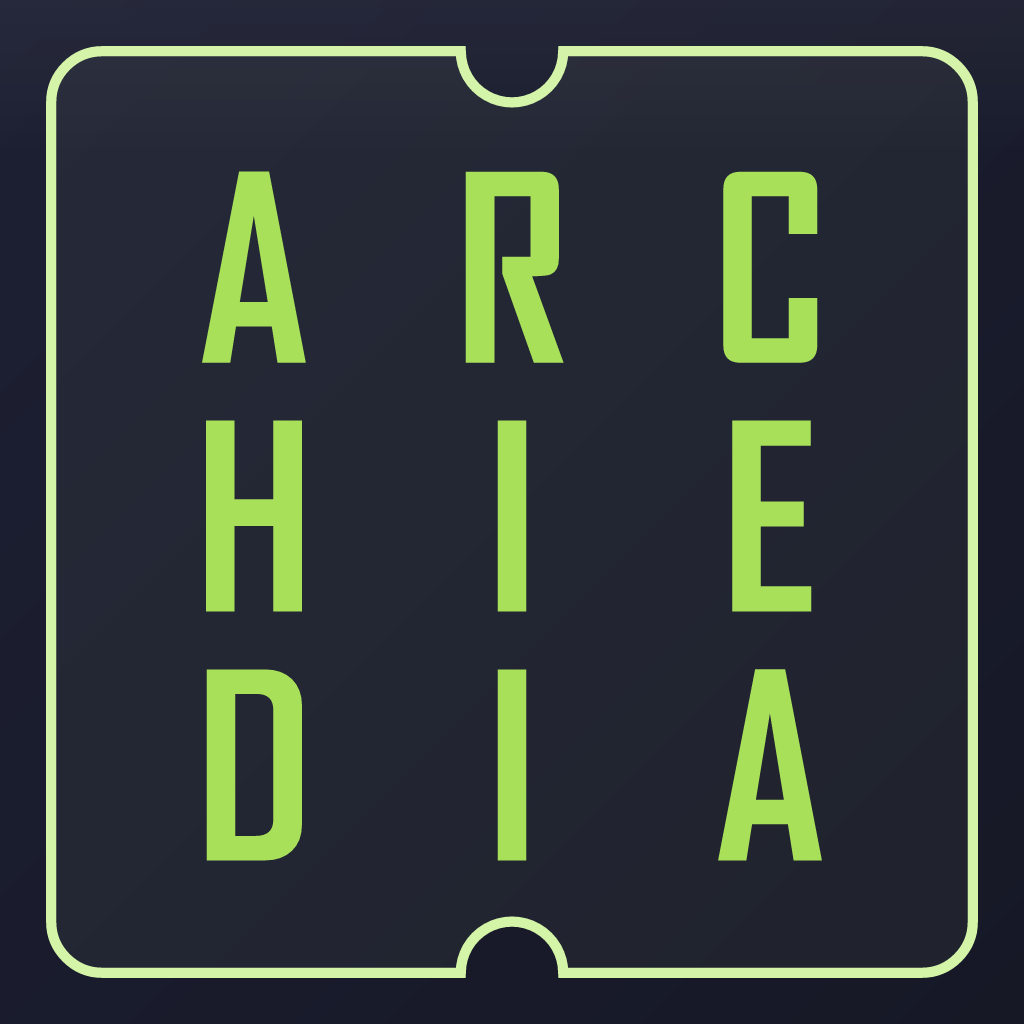
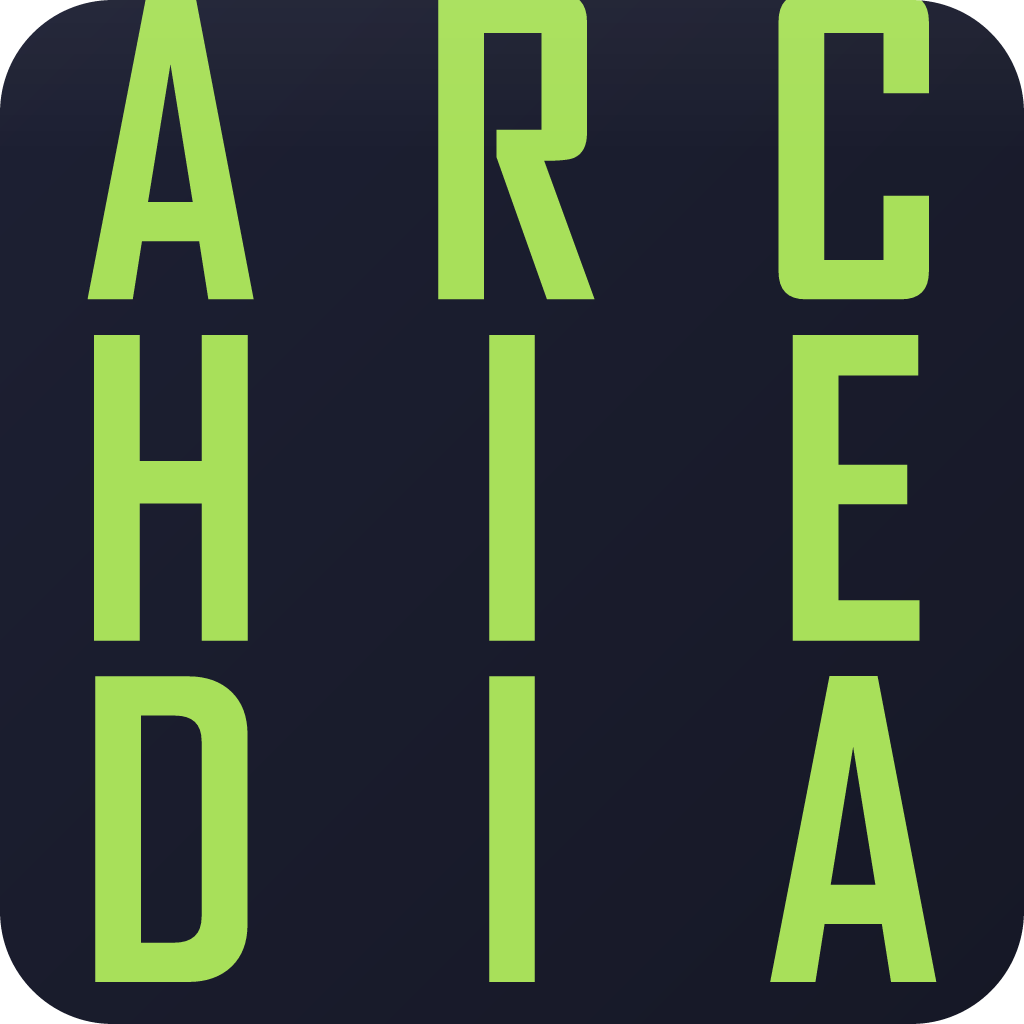
Rename the app from the electron-vite boilerplate default to 아키디아
productName/appId/AppUserModelId were still "app"/com.electron from the
template, so the installed app showed up as "app" everywhere (Start
menu, taskbar, window title). Also refresh the desktop/mobile app icon
from an updated thumbnail design, and add eas.json with an ad-hoc iOS
build profile plus the EAS project link for personal-device installs.

Changed region(s): [[0.0, 0.0, 1.0, 1.0]]

diff --git a/src/main/index.ts b/src/main/index.ts
@@ -42,7 +42,7 @@ function createWindow(): void {
 // Some APIs can only be used after this event occurs.
 app.whenReady().then(() => {
   // Set app user model id for windows
-  electronApp.setAppUserModelId('com.electron')
+  electronApp.setAppUserModelId('com.archiedia.app')
 
   // Default open or close DevTools by F12 in development
   // and ignore CommandOrControl + R in production.
